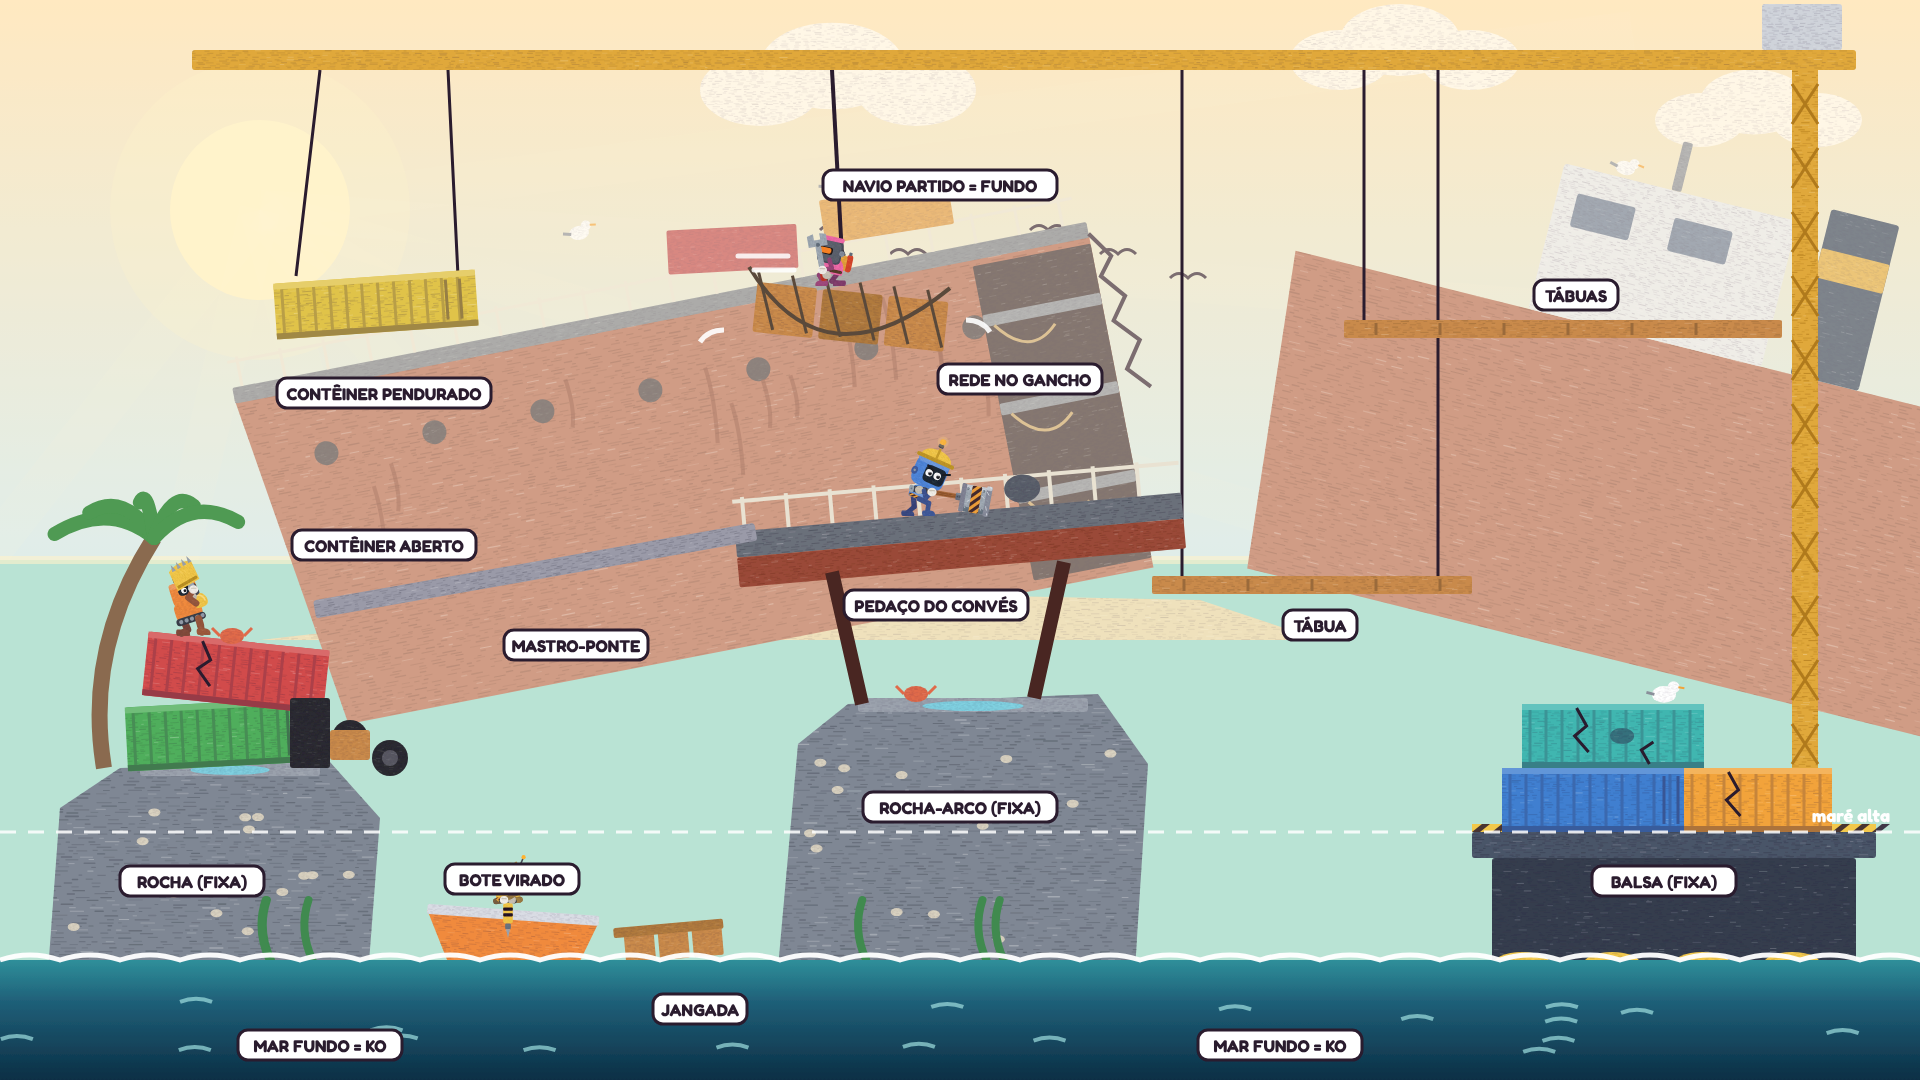
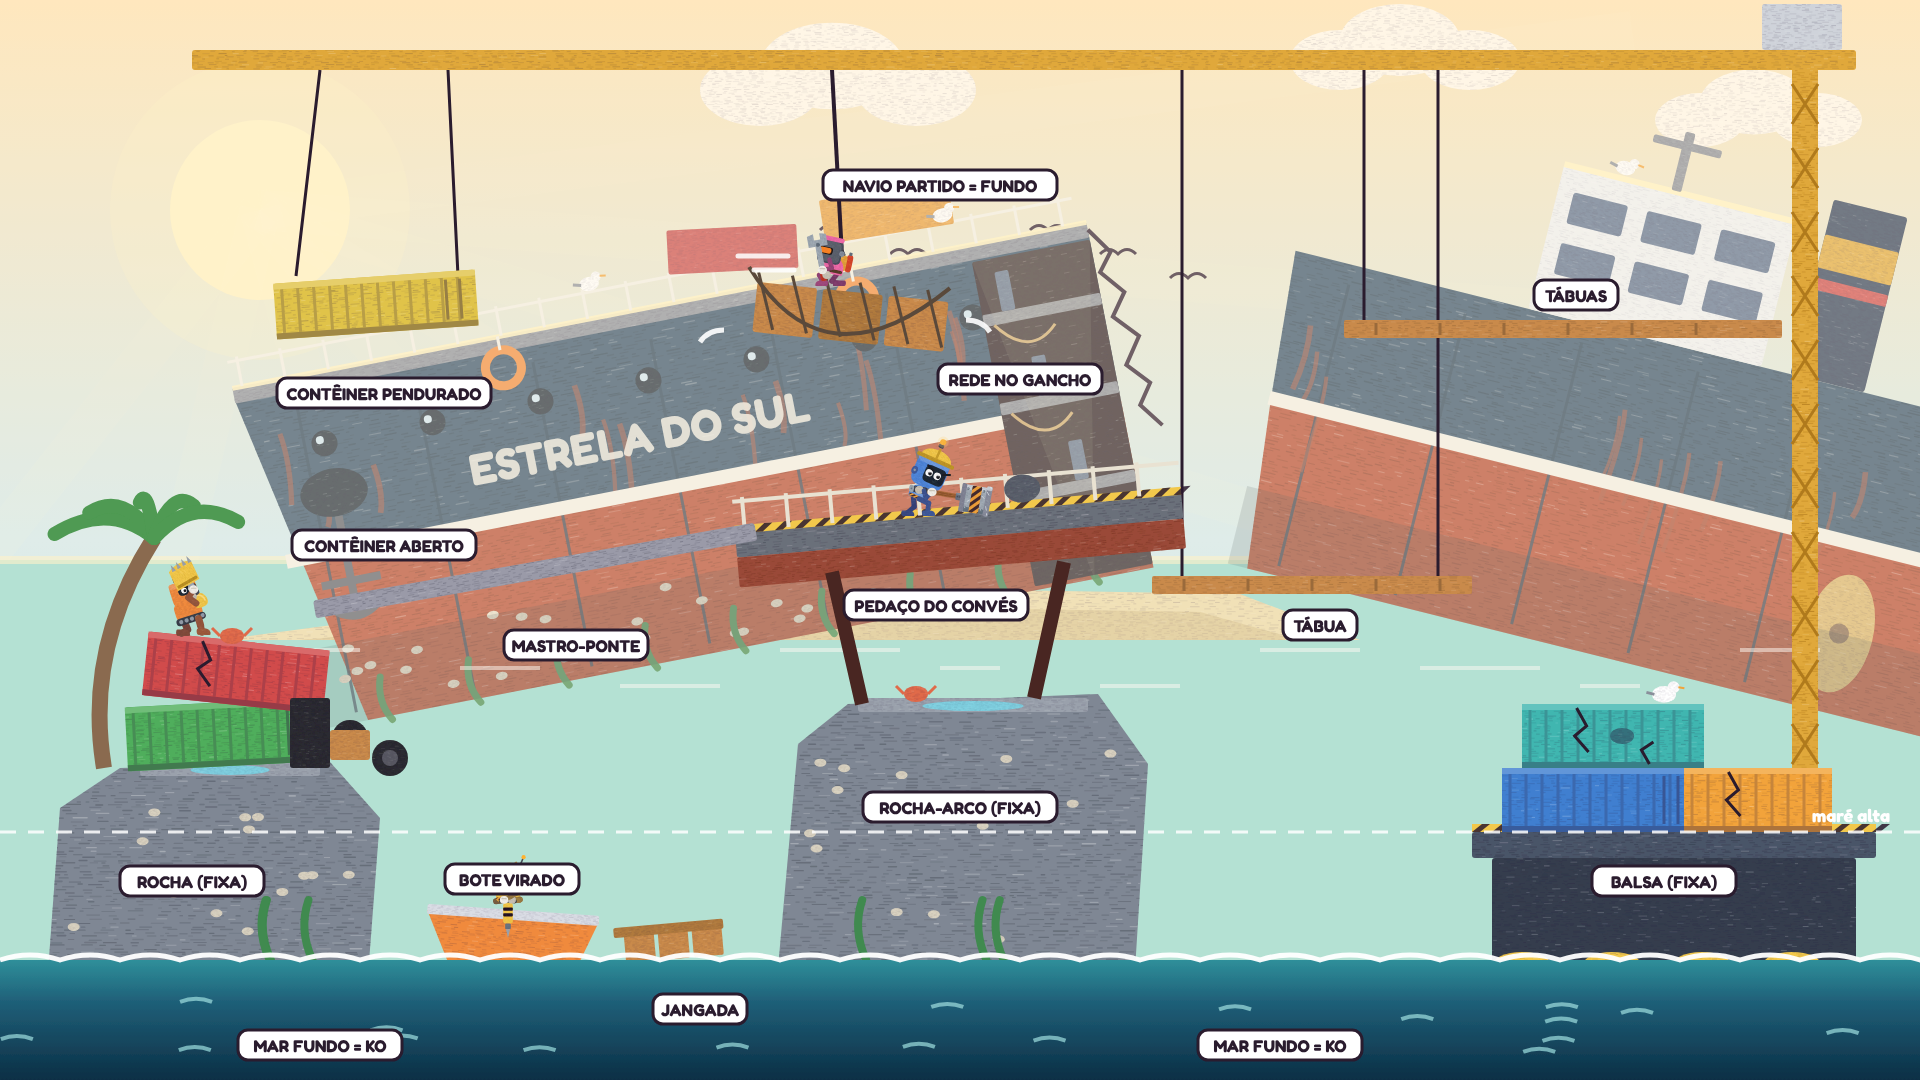
Cargueiro: fundo dos Destroços refeito (pintura de navio, luz da manhã, detalhes, reflexos)
Claude-Session: https://claude.ai/code/session_018QUPBQj4sLX3w64QQJCiVt

Changed region(s): [[0.125, 0.1528, 1.0, 0.6722], [0.8438, 0.1222, 0.9062, 0.1528], [0.75, 0.6111, 0.7812, 0.6417]]

diff --git a/art/src/cenarios/f2_prancha.py b/art/src/cenarios/f2_prancha.py
@@ -332,40 +332,76 @@ def c2_ceu():
     return o
 
 
+def casco_fundo(pts_alto, pts_baixo, box, seed):
+    """Casco de navio de verdade: obras mortas azul-escuras, faixa branca, obras vivas vermelhas (antiferrugem)."""
+    o = PL(pts_alto, "#34506a", 2.4, dark="#243a50") + PL(pts_baixo, "#b5482f", 2.2, dark="#8a3524")
+    rnd = random.Random(seed)
+    x0, y0, x1, y1 = box
+    for k in range(int((x1 - x0) / 120)):   # chapas
+        x = x0 + 60 + k * 120
+        o += f'<path d="M{x},{y0 + 20} V{y1 - 10}" stroke="#2a4258" stroke-width="3" opacity="0.8"/>'
+    for _ in range(int((x1 - x0) / 60)):   # ferrugem escorrendo
+        x = rnd.uniform(x0 + 20, x1 - 20)
+        y = rnd.uniform(y0 + 30, y0 + 120)
+        o += f'<path d="M{x},{y} q5,30 -2,{rnd.uniform(40, 110)}" stroke="#a5523d" stroke-width="{rnd.uniform(3, 6):.1f}" fill="none" opacity="0.6"/>'
+    return o
+
+
 def c2_navio_fundo():
-    """Moldura: a proa tombada à esquerda (com o corte mostrando os andares) e a popa emborcada à direita."""
-    o = PL([(260, 640), (700, 590), (1200, 600), (1320, 640)], "#e6d6a8", 1.6)   # banco de areia onde encalhou
-    o += f'<g transform="rotate(-11 760 430)">'
-    o += PL([(250, 300), (1120, 300), (1120, 640), (300, 640)], "#b4664f", 2.4, dark="#8a4a38")
-    o += R(250, 288, 870, 16, "#7a7f8a", 2, 1.2)
+    """Moldura (não se pisa), 3 camadas: banco de areia · proa tombada (corte com os andares) · popa emborcada. Pintura de
+    navio de verdade, luz da manhã nas bordas de cima, sombra embaixo e reflexo na água."""
+    o = PL([(220, 640), (640, 584), (1240, 594), (1360, 640)], "#ead8a6", 1.6) + PL([(300, 640), (700, 604), (1200, 612), (1300, 640)], "#d9c38c", 1.2)
+    # ---- proa tombada (esquerda/centro)
+    o += '<g transform="rotate(-11 760 430)">'
+    o += casco_fundo([(250, 300), (1120, 300), (1120, 470), (285, 470)], [(285, 470), (1120, 470), (1120, 640), (320, 640)], (250, 300, 1120, 640), 41)
+    o += f'<rect x="270" y="462" width="850" height="14" fill="#f2efe6"/>'   # faixa branca da linha d'água
+    o += R(250, 288, 870, 16, "#8a909c", 2, 1.2) + f'<rect x="250" y="286" width="870" height="5" fill="#fff2c0" opacity="0.9"/>'   # luz no convés
     for x in range(260, 1110, 44):
-        o += f'<path d="M{x},288 v-30" stroke="#e9e2d2" stroke-width="3"/>'
-    o += f'<path d="M250,262 H1110" stroke="#e9e2d2" stroke-width="3"/>'
+        o += f'<path d="M{x},288 v-30" stroke="#f2efe6" stroke-width="3"/>'
+    o += f'<path d="M250,262 H1110" stroke="#f2efe6" stroke-width="3"/>'
     for k in range(7):
-        o += E(330 + k * 110, 370, 12, 12, "#4a3f44", 0.8)
-    rnd = random.Random(41)
-    for k in range(14):
-        x = rnd.uniform(270, 1080)
-        o += f'<path d="M{x},{rnd.uniform(320, 420)} q4,30 -2,{rnd.uniform(40, 90)}" stroke="#7a3424" stroke-width="4" fill="none" opacity="0.5"/>'
-    # corte aberto na quebra: andares por dentro, canos e cabos pendurados
-    o += R(1000, 310, 120, 320, "#3a2a2e", 2, 1.2)
+        o += E(330 + k * 110, 360, 13, 13, "#1e2c3a", 0.8) + f'<circle cx="{326 + k * 110}" cy="356" r="4" fill="#cfe6f4"/>'
+    o += f'<text x="640" y="430" font-family="Fredoka" font-weight="700" font-size="44" fill="#f2efe6" text-anchor="middle" opacity="0.85">ESTRELA DO SUL</text>'
+    o += E(330, 410, 34, 24, "#1e2c3a", 1.0) + f'<path d="M330,434 v90 M300,500 h60 M305,524 q25,22 50,0" stroke="#5a5f6a" stroke-width="8" fill="none"/>'   # âncora
+    for k, x in enumerate((520, 880)):   # boias penduradas
+        o += f'<circle cx="{x}" cy="320" r="18" fill="none" stroke="#f08a3d" stroke-width="9"/><path d="M{x},302 v-14" stroke="#f2efe6" stroke-width="3"/>'
+    rnd = random.Random(9)
+    for _ in range(28):   # cracas e algas na linha d'água
+        x = rnd.uniform(300, 1100)
+        o += E(x, rnd.uniform(560, 630), 6, 4, "#e8e0cc", 0.5)
+    for k in range(9):
+        x = 340 + k * 90
+        o += f'<path d="M{x},600 q-8,24 4,44" stroke="#3f8a4f" stroke-width="7" fill="none" stroke-linecap="round"/>'
+    # corte aberto na quebra: andares por dentro, canos e cabos pendurados, luz entrando
+    o += R(1000, 306, 120, 330, "#2a1f26", 2, 1.2)
     for k in range(3):
         o += R(1000, 360 + k * 90, 120, 12, "#8a8f9a", 2, 0.8)
         o += f'<path d="M1010,{372 + k * 90} q30,40 60,10" stroke="#c9a46a" stroke-width="3" fill="none"/>'
-    o += f'<path d="M1120,300 l18,26 l-14,18 l20,24 l-16,22 l22,24 l-18,26 l20,22" stroke="{INK}" stroke-width="4" fill="none"/>'
-    # contêineres escorregando pelo convés inclinado
+        o += R(1020 + k * 20, 320 + k * 90, 14, 40, "#5a6f8f", 2, 0.6)
+    o += f'<path d="M1000,306 L1120,306 L1060,640 Z" fill="#fff2c0" opacity="0.08"/>'
+    o += f'<path d="M1120,296 l18,26 l-14,18 l20,24 l-16,22 l22,24 l-18,26 l20,22 l-14,20 l18,24" stroke="{INK}" stroke-width="4" fill="none"/>'
     for k, (x, c) in enumerate([(700, 0), (860, 3)]):
-        o += f'<g transform="rotate({8 - k * 6} {x} 260)">' + R(x, 216, 130, 44, shade(CONT[c], -0.1), 2, 1.0) + "</g>"
-    o += gaivota(620, 210, 1.0, True) + gaivota(880, 212, 1.0, True)
+        o += f'<g transform="rotate({8 - k * 6} {x} 260)">' + R(x, 216, 130, 44, shade(CONT[c], -0.05), 2, 1.0) + "</g>"
+    o += gaivota(620, 262, 1.0, True) + gaivota(980, 262, 1.0, True)
+    o += f'<rect x="250" y="560" width="870" height="80" fill="#1a2f3a" opacity="0.18"/>'   # sombra embaixo
     o += "</g>"
-    # popa emborcada à direita: ponte de comando de lado, chaminé listrada
-    o += f'<g transform="rotate(14 1560 430)">'
-    o += PL([(1260, 320), (1960, 320), (2000, 640), (1290, 640)], "#b4664f", 2.4, dark="#8a4a38")
-    o += R(1500, 170, 240, 150, "#e6e8ee", 4, 1.4) + R(1520, 196, 60, 34, "#6a7a96", 3, 1.0) + R(1620, 196, 60, 34, "#6a7a96", 3, 1.0)
-    o += R(1770, 150, 70, 170, "#2f3f5a", 3, 1.2) + R(1770, 190, 70, 30, "#e0a83a", 2, 1.0)
-    o += R(1610, 120, 10, 50, "#8a8f9a", 2, 0.8) + gaivota(1560, 168, 1.0, True)
+    # ---- popa emborcada à direita (ponte de lado, chaminé listrada, hélice)
+    o += '<g transform="rotate(14 1560 430)">'
+    o += casco_fundo([(1260, 320), (1960, 320), (1975, 470), (1272, 470)], [(1272, 470), (1975, 470), (2000, 640), (1290, 640)], (1260, 320, 1960, 640), 43)
+    o += f'<rect x="1270" y="462" width="710" height="14" fill="#f2efe6"/>'
+    o += R(1500, 170, 240, 150, "#eef0f4", 4, 1.4, dark="#cfd3da") + f'<rect x="1500" y="168" width="240" height="6" fill="#fff2c0"/>'
+    for c in range(3):
+        o += R(1516 + c * 76, 196, 56, 32, "#5a6f8f", 3, 1.0) + R(1516 + c * 76, 248, 56, 32, "#5a6f8f", 3, 1.0)
+    o += R(1770, 140, 76, 180, "#2f3f5a", 3, 1.2) + R(1770, 176, 76, 34, "#e0a83a", 2, 1.0) + R(1770, 220, 76, 12, "#d14b4b", 2, 0.8)
+    o += R(1610, 110, 10, 60, "#8a8f9a", 2, 0.8) + R(1580, 120, 70, 8, "#8a8f9a", 2, 0.6) + gaivota(1560, 168, 1.0, True)
+    o += E(1880, 560, 34, 60, "#d9b46a", 1.2) + E(1880, 560, 10, 10, "#8a6b4f", 0.6)
+    o += f'<rect x="1270" y="560" width="720" height="80" fill="#1a2f3a" opacity="0.18"/>'
     o += "</g>"
-    o += f'<rect x="0" y="0" width="{W}" height="{MAR2}" fill="#fff4dc" opacity="0.38"/>'   # névoa dourada da manhã
+    # reflexos na água calma entre o banco de areia e o palco
+    for k in range(10):
+        x = 300 + k * 160
+        o += f'<path d="M{x},{650 + (k % 3) * 18} h{60 + (k % 4) * 20}" stroke="#ffffff" stroke-width="4" opacity="0.5"/>'
+    o += f'<rect x="0" y="0" width="{W}" height="{MAR2}" fill="#fff4dc" opacity="0.33"/>'   # névoa leve da manhã
     return o
 
 
@@ -426,6 +462,7 @@ def c2_palco():
     # ---- QUEBRA: pedaço do convés (com guarda-corpo) apoiado no arco — nível 8; escoras dobradas
     o += f'<g transform="rotate(-5 {15 * T} {8 * T})">'
     o += R(11 * T + 30, 8 * T, 7 * T, 26, "#6b6f7a", 2, 1.6, dark="#4a4f5a") + R(11 * T + 30, 8 * T + 26, 7 * T, 30, "#9a4a38", 2, 1.4, dark="#7a3424")
+    o += zebra(11 * T + 30, 8 * T - 6, 7 * T, 8)
     for x in range(11 * T + 40, 18 * T + 30, 44):
         o += f'<path d="M{x},{8 * T} v-34" stroke="#e9e2d2" stroke-width="4"/>'
     o += f'<path d="M{11 * T + 30},{8 * T - 30} H{18 * T + 30}" stroke="#e9e2d2" stroke-width="4"/>'
